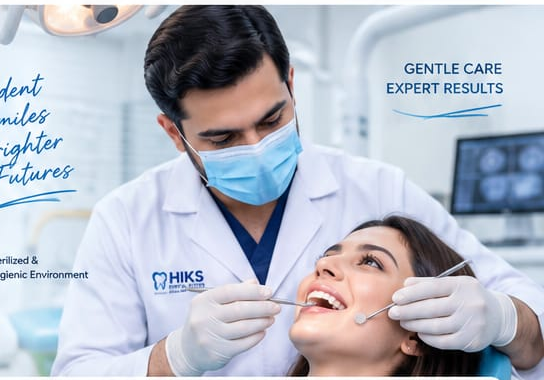
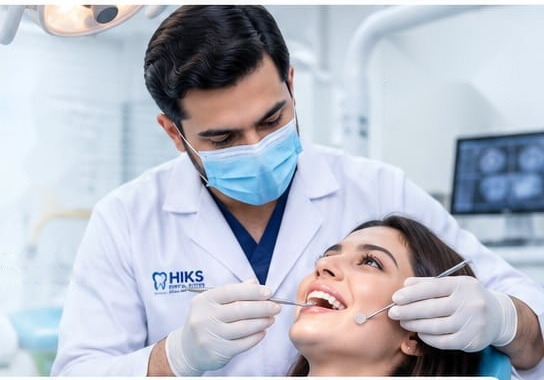
new

Changed region(s): [[0.0, 0.2026, 0.1562, 0.55], [0.6875, 0.1447, 0.9375, 0.3184], [0.0, 0.6658, 0.1562, 0.7526]]

diff --git a/public/css/style.css b/public/css/style.css
@@ -10,17 +10,18 @@
 .why-reference-grid{display:grid;grid-template-columns:repeat(3,1fr);gap:14px}.why-reference-grid article{background:#fff;border:1px solid #e0ebf3;border-radius:12px;padding:20px;box-shadow:0 7px 20px rgba(16,67,103,.05)}.why-reference-grid article>span{display:flex;width:35px;height:35px;border-radius:50%;align-items:center;justify-content:center;background:#e7f5ff;color:var(--blue);font-weight:900}.why-reference-grid h3{font-size:15px;margin:10px 0 4px}.why-reference-grid p{font-size:12px;color:var(--muted);margin:0}
 .safety-reference{background:linear-gradient(110deg,#0b1f3a,#104d78);color:#fff}.safety-reference-grid{display:grid;grid-template-columns:240px 1fr;gap:55px;align-items:center}.safety-reference h2{color:#fff}.safety-reference p{color:#d8e6f1;max-width:750px}.safety-visual{height:180px;width:180px;border-radius:50%;border:9px solid rgba(255,255,255,.14);background:#0b79bf;display:flex;flex-direction:column;align-items:center;justify-content:center;margin:auto;box-shadow:0 0 0 14px rgba(255,255,255,.05)}.safety-visual span{font-size:42px;font-weight:900}.safety-visual small{text-align:center;font-weight:900;font-size:10px}.equipment-callout{display:flex;gap:14px;align-items:center;background:rgba(255,255,255,.08);border:1px solid rgba(255,255,255,.15);border-radius:10px;padding:14px 17px;margin-top:20px}.equipment-callout strong{color:#fff}.equipment-callout span{color:#dceaf3;font-size:12px}
 .pricing-reference{background:#f6fbff}.pricing-reference-grid{display:grid;grid-template-columns:1fr 380px;gap:50px;align-items:center}.pricing-reference p{color:var(--muted)}.price-reference-card{background:#fff;border-radius:14px;border:1px solid #dfebf3;box-shadow:var(--shadow);padding:28px}.price-reference-card span{font-size:10px;color:var(--muted);font-weight:900;letter-spacing:1px}.price-reference-card strong{display:block;color:#0d6ca8;font-size:42px;line-height:1.1;margin:8px 0}.price-reference-card small{display:block;color:#536c82;margin-bottom:17px}
-.gallery-reference-grid{display:grid;grid-template-columns:repeat(4,1fr);gap:14px}.gallery-reference-grid figure{margin:0}.gallery-reference-grid img{width:100%;height:150px;object-fit:cover;border-radius:10px}.gallery-reference-grid figcaption{font-size:11px;font-weight:800;margin-top:7px;color:#284963}.testimonials-reference{background:#fff}.testimonial-card{max-width:800px;margin:auto;background:#f7fbff;border:1px solid #e2edf5;border-radius:14px;padding:28px 35px;display:flex;gap:18px;align-items:flex-start;box-shadow:0 7px 20px rgba(20,70,100,.05)}.quote-mark{font:700 55px Georgia;color:#2e9ad3;line-height:.7}.testimonial-card p{margin:0;color:#3e5971}.review-note{display:block;margin-top:10px;font-size:11px;color:#7b8c9b}
+.gallery-reference-grid{display:grid;grid-template-columns:repeat(4,1fr);gap:14px}.gallery-reference-grid figure{margin:0}.gallery-reference-grid img{width:100%;height:150px;object-fit:cover;border-radius:10px}.gallery-reference-grid figcaption{font-size:11px;font-weight:800;margin-top:7px;color:#284963}.testimonials-reference{background:#fff}.testimonial-card{max-width:800px;margin:auto;background:#f7fbff;border:1px solid #e2edf5;border-radius:14px;padding:28px 35px;display:flex;gap:18px;align-items:flex-start;box-shadow:0 7px 20px rgba(20,70,100,.05)}.quote-mark{font:700 55px Georgia;color:#2e9ad3;line-height:.7}.testimonial-card p{margin:0;color:#3e5971}.review-note{display:block;margin-top:10px;font-size:11px;color:#7b8c9b}.testimonial-grid{display:grid;grid-template-columns:repeat(auto-fit,minmax(280px,1fr));gap:18px;max-width:1100px;margin:auto}.testimonial-grid .testimonial-card{max-width:none;margin:0}.review-stars{font-size:15px;letter-spacing:2px;margin-bottom:8px}.review-stars .star-filled{color:#f5a623}.review-stars .star-empty{color:#d8e3ea}.review-author{font-weight:800;color:#284963;font-style:normal}
+.review-add-form{display:grid;grid-template-columns:minmax(0,1fr) 160px auto;gap:10px}.review-add-form label{display:flex;flex-direction:column;gap:6px;font-weight:800;color:var(--navy);font-size:13px}.review-add-form input,.review-add-form select,.review-add-form textarea{padding:11px 12px;border:1px solid #d6e0e7;border-radius:8px;font:inherit}.review-add-form .review-text-field{grid-column:1/-1}.review-add-form button{align-self:start}.review-admin-list{display:flex;flex-direction:column;gap:14px}.review-admin-row{display:grid;grid-template-columns:minmax(0,1fr) auto;gap:10px;align-items:start;background:#fff;border:1px solid var(--border);border-radius:10px;padding:12px}.review-edit-form{display:grid;grid-template-columns:1fr 140px auto;gap:8px}.review-edit-form textarea{grid-column:1/-1;padding:9px 10px;border:1px solid #d6e0e7;border-radius:8px;font:inherit;resize:vertical}.review-edit-form input,.review-edit-form select{padding:9px 10px;border:1px solid #d6e0e7;border-radius:8px;font:inherit}@media(max-width:700px){.review-add-form,.review-edit-form{grid-template-columns:1fr}.review-admin-row{grid-template-columns:1fr}}
 .before-after-reference{background:#f8fbfd}.before-after-grid{display:grid;grid-template-columns:repeat(3,1fr);gap:15px}.before-after-grid article{background:#fff;border:1px solid #e0e9ef;border-radius:12px;padding:10px}.ba-placeholder{height:165px;border-radius:9px;background:linear-gradient(90deg,#eaf1f5 0 49%,#f8fbfd 49% 51%,#dff2fb 51% 100%);display:flex;align-items:center;justify-content:center;flex-direction:column;color:#48667c;position:relative}.ba-placeholder span{font-weight:900;font-size:17px}.ba-placeholder small{font-size:10px}.before-after-grid h3{font-size:13px;margin:9px 2px 2px}.before-after-grid p{font-size:10px;color:var(--muted);margin:0 2px 5px}
 .faq-reference{background:#fff}.faq-grid{display:grid;grid-template-columns:.8fr 1.2fr;gap:65px}.faq-grid>div>p{color:var(--muted);font-size:13px}.faq-list{display:flex;flex-direction:column;gap:9px}.faq-list details{border:1px solid #e1eaf1;border-radius:9px;background:#fff;padding:0 15px}.faq-list summary{cursor:pointer;padding:14px 3px;font-size:13px;font-weight:800;color:#173c5b}.faq-list p{font-size:12px;color:#62768a;margin:0 3px 15px}
 .contact-reference{background:#f1f8fd}.contact-reference-grid{display:grid;grid-template-columns:1fr 1fr;gap:50px;align-items:center}.contact-reference p{color:#50697f}.contact-reference-actions{display:flex;gap:10px;flex-wrap:wrap}.map-card{background:#fff;padding:10px;border-radius:13px;box-shadow:var(--shadow)}.map-card iframe{display:block;width:100%;height:260px;border:0;border-radius:9px;margin-bottom:10px}
-.floating-actions{position:fixed;right:18px;bottom:18px;z-index:45;display:flex;flex-direction:column;gap:8px}.floating-actions a{padding:10px 15px;border-radius:999px;color:#fff;font-size:11px;font-weight:900;box-shadow:0 8px 20px rgba(0,0,0,.16)}.floating-whatsapp{background:#19a865}.floating-call{background:var(--blue)}
+.floating-actions{position:fixed;right:18px;bottom:18px;z-index:45;display:flex;flex-direction:column;gap:12px}.floating-btn{display:flex;align-items:center;justify-content:center;width:56px;height:56px;border-radius:50%;color:#fff;box-shadow:0 8px 20px rgba(0,0,0,.22);transition:transform .15s ease,box-shadow .15s ease}.floating-btn:hover{transform:scale(1.08);box-shadow:0 10px 24px rgba(0,0,0,.28)}.floating-whatsapp{background:#25d366}.floating-call{background:var(--blue)}
 .site-footer{background:#062c4c;color:#d9e8f2}.footer-inner{display:grid;grid-template-columns:1.35fr 1fr 1.2fr 1.2fr;gap:38px;padding:50px 0}.footer-logo{width:62px;height:62px;object-fit:cover;border-radius:50%;margin-bottom:14px}.footer-column{display:flex;flex-direction:column;gap:7px}.footer-column h4{margin:0 0 8px;color:#fff;font-size:15px}.footer-column a,.footer-column p{font-size:11px;color:#cbdce8;margin:0}.footer-column a:hover{color:#fff}.footer-brand-column>p{max-width:260px}.social-links{display:flex;gap:8px;margin-top:8px}.social-links a{display:flex;width:29px;height:29px;border-radius:50%;align-items:center;justify-content:center;background:#fff;color:#0b4b76;font-weight:900}.footer-map{display:block;width:100%;height:150px;border:0;border-radius:9px;margin:0 0 4px;background:#fff}.footer-bottom{border-top:1px solid rgba(255,255,255,.12);padding:14px 0}.footer-bottom .container{display:flex;justify-content:space-between;gap:20px;font-size:10px}
 .page-hero{background:linear-gradient(120deg,#0b1f3a,#11649a);color:#fff;padding:65px 0}.page-hero h1{font-size:38px;margin:7px 0}.page-hero p{color:#dce9f3;max-width:650px}.form-card{background:#fff;border:1px solid var(--border);border-radius:13px;padding:28px;display:flex;flex-direction:column;gap:16px;box-shadow:var(--shadow)}.form-card label{display:flex;flex-direction:column;gap:7px;font-size:13px;font-weight:800;color:var(--navy)}.form-card input,.form-card select,.form-card textarea,.filter-form select{width:100%;padding:12px 13px;border:1px solid #d6e0e7;border-radius:8px;font:inherit;background:#fff}.form-card input:focus,.form-card select:focus,.form-card textarea:focus{outline:2px solid rgba(8,118,201,.15);border-color:var(--blue)}.alert{padding:13px 16px;border-radius:8px;margin-bottom:16px}.alert-error{background:#fff0ef;color:#b13a36;border:1px solid #f1cbc8}.whatsapp-booking{margin-top:18px;padding:17px;border-radius:10px;background:#effaf4;border:1px solid #d5ebde;display:flex;justify-content:space-between;align-items:center;gap:15px}.whatsapp-booking div{display:flex;flex-direction:column}.whatsapp-booking span{color:var(--muted);font-size:11px}.token-card,.status-card{background:#fff;border:1px solid var(--border);border-radius:14px;padding:32px;box-shadow:var(--shadow)}.token-box{background:var(--navy);color:var(--gold-2);font:700 1.5rem Georgia,serif;border-radius:9px;padding:15px;margin:18px 0}.summary-table{width:100%;border-collapse:collapse}.summary-table th,.summary-table td{padding:11px;border-bottom:1px solid var(--border);text-align:left}.summary-table th{color:var(--muted);width:160px}.badge{display:inline-block;padding:4px 10px;border-radius:999px;font-size:11px;font-weight:800}.badge-pending{background:#fff4dd;color:#a97912}.badge-confirmed{background:#e4f7ee;color:#23805a}.badge-completed{background:#e7eef9;color:var(--navy)}.badge-cancelled{background:#fdecea;color:#c43d3d}
 .admin-body{background:#f4f6f8}.admin-layout{display:flex;min-height:100vh}.admin-sidebar{width:245px;flex:0 0 245px;background:var(--navy);color:#fff;padding:24px 18px;display:flex;flex-direction:column;gap:24px}.admin-logo{font:600 1.25rem Georgia,serif;color:var(--gold-2)}.admin-sidebar nav{display:flex;flex-direction:column;gap:8px}.admin-sidebar nav a{color:#d9e1ec;padding:10px 12px;border-radius:7px}.admin-sidebar nav a:hover{background:rgba(255,255,255,.08);color:#fff}.logout-form{margin-top:auto}.admin-main{flex:1;padding:30px 20px}.admin-main h1{color:var(--navy);margin-top:0}.page-header{display:flex;align-items:center;justify-content:space-between;flex-wrap:wrap;gap:12px;margin-bottom:20px}.stats-grid{display:grid;grid-template-columns:repeat(4,1fr);gap:15px;margin-bottom:26px}.card{background:#fff;border:1px solid var(--border);border-radius:10px;padding:20px}.stat-card{text-align:center}.stat-number{font-size:2.2rem;font-weight:800;color:var(--navy)}.stat-label{color:var(--muted)}.quick-links{display:flex;gap:12px;flex-wrap:wrap}.admin-table{width:100%;border-collapse:collapse;background:#fff;border-radius:10px;overflow:hidden}.admin-table th,.admin-table td{padding:12px 14px;border-bottom:1px solid var(--border);text-align:left;font-size:.9rem}.admin-table th{background:#f8fafc;color:var(--muted)}.admin-table .thumb{width:44px;height:44px;border-radius:8px;object-fit:cover}.admin-table .actions{display:flex;gap:8px;align-items:center}.admin-table form{margin:0}.login-wrap{min-height:100vh;display:flex;align-items:center;justify-content:center;padding:20px;background:var(--navy)}.login-card{background:#fff;border-radius:14px;padding:34px;width:100%;max-width:400px;box-shadow:var(--shadow)}.login-card form{display:flex;flex-direction:column;gap:14px;margin-top:14px}.login-card label{display:flex;flex-direction:column;gap:6px;font-weight:700}.login-card input{padding:11px 12px;border:1px solid var(--border);border-radius:8px}
 @media(max-width:1050px){.main-nav{gap:16px}.main-nav a{font-size:12px}.service-reference-grid{grid-template-columns:repeat(4,1fr)}.hero-reference-grid{grid-template-columns:1fr 1fr}.footer-inner{grid-template-columns:repeat(2,1fr)}}
 @media(max-width:800px){.header-inner{min-height:58px;flex-wrap:wrap}.brand{flex:1}.brand{height:58px}.brand img{width:44px;height:44px}.nav-toggle{display:block;order:2}.header-cta{order:3}.main-nav{order:4;display:none;width:100%;flex-direction:column;align-items:flex-start;gap:0;padding:7px 0 15px;margin:0}.main-nav.open{display:flex}.main-nav a{padding:9px 0;border:0}.hero-reference-grid,.about-grid-reference,.pricing-reference-grid,.faq-grid,.contact-reference-grid{grid-template-columns:1fr}.hero-reference-grid{min-height:unset}.hero-copy-reference{padding:35px 0}.hero-photo-wrap{height:320px;min-height:320px}.hero-script{left:30px}.hero-side-copy{right:25px}.trust-bar{grid-template-columns:repeat(2,1fr)}.trust-bar>div:nth-child(2){border-right:0}.offer-ribbon-inner{flex-wrap:wrap;padding:17px 0}.doctor-offer-column{grid-template-columns:1fr 1fr}.why-reference-grid{grid-template-columns:repeat(2,1fr)}.gallery-reference-grid{grid-template-columns:repeat(2,1fr)}.before-after-grid{grid-template-columns:repeat(2,1fr)}.safety-reference-grid{grid-template-columns:1fr;gap:25px}.safety-reference-grid>div:last-child{text-align:center}.equipment-callout{justify-content:center;flex-wrap:wrap}.footer-inner{grid-template-columns:repeat(2,1fr)}.stats-grid{grid-template-columns:repeat(2,1fr)}.admin-layout{flex-direction:column}.admin-sidebar{width:100%;flex-basis:auto}.admin-sidebar nav{flex-direction:row;flex-wrap:wrap}.logout-form{margin-top:0}}
-@media(max-width:560px){.container{width:calc(100% - 26px)}.section{padding:58px 0}.header-cta{display:none}.hero-copy-reference h1{font-size:36px}.hero-feature-row{grid-template-columns:repeat(2,1fr);gap:12px}.hero-photo-wrap{height:260px;min-height:260px}.hero-script{font-size:22px;top:45px}.hero-side-copy{font-size:10px;top:45px}.trust-bar{grid-template-columns:1fr 1fr;padding:9px}.trust-bar strong{font-size:18px}.trust-bar span{font-size:9px}.offer-big{font-size:23px}.reference-heading{align-items:flex-start;flex-direction:column;gap:8px}.section-heading h2,.about-copy-reference h2,.safety-reference h2,.pricing-reference h2,.faq-grid h2,.contact-reference h2{font-size:26px}.service-reference-grid{grid-template-columns:repeat(2,1fr)}.doctor-offer-column{grid-template-columns:1fr}.mini-features{grid-template-columns:1fr}.why-reference-grid,.gallery-reference-grid,.before-after-grid{grid-template-columns:1fr}.gallery-reference-grid img{height:190px}.footer-inner{grid-template-columns:1fr}.footer-bottom .container{flex-direction:column}.floating-actions{right:9px;bottom:9px}.contact-reference-actions .btn{width:100%}}
+@media(max-width:560px){.container{width:calc(100% - 26px)}.section{padding:58px 0}.header-cta{display:none}.hero-copy-reference h1{font-size:36px}.hero-feature-row{grid-template-columns:repeat(2,1fr);gap:12px}.hero-photo-wrap{height:260px;min-height:260px}.hero-script{font-size:22px;top:45px}.hero-side-copy{font-size:10px;top:45px}.trust-bar{grid-template-columns:1fr 1fr;padding:9px}.trust-bar strong{font-size:18px}.trust-bar span{font-size:9px}.offer-big{font-size:23px}.reference-heading{align-items:flex-start;flex-direction:column;gap:8px}.section-heading h2,.about-copy-reference h2,.safety-reference h2,.pricing-reference h2,.faq-grid h2,.contact-reference h2{font-size:26px}.service-reference-grid{grid-template-columns:repeat(2,1fr)}.doctor-offer-column{grid-template-columns:1fr}.mini-features{grid-template-columns:1fr}.why-reference-grid,.gallery-reference-grid,.before-after-grid{grid-template-columns:1fr}.gallery-reference-grid img{height:190px}.footer-inner{grid-template-columns:1fr}.footer-bottom .container{flex-direction:column}.floating-actions{right:12px;bottom:12px;gap:10px}.floating-btn{width:48px;height:48px}.contact-reference-actions .btn{width:100%}}
 
 /* Doctors preview / directory */
 .section-subtitle{font-size:13px;color:var(--muted);margin:8px 0 0}.doctors-preview-section{background:#f7fbfe}.doctor-feature-card{display:grid;grid-template-columns:minmax(260px,360px) 1fr;gap:38px;align-items:center;background:#fff;border:1px solid #e2ebf2;border-radius:18px;padding:18px;box-shadow:var(--shadow);max-width:920px;margin:0 auto}.doctor-feature-photo-wrap{height:330px;border-radius:14px;overflow:hidden;background:#eef4f8}.doctor-feature-photo{width:100%;height:100%;object-fit:cover;object-position:center top}.doctor-feature-content{padding:12px 18px 12px 0}.doctor-feature-content h3{font-size:30px;line-height:1.1;color:#123250;margin:7px 0 4px}.doctor-feature-content>p:not(.doctor-qualification){font-size:14px;line-height:1.7;color:#536b80;max-width:620px}.doctor-feature-meta{display:flex;flex-wrap:wrap;gap:10px;margin:18px 0 22px}.doctor-feature-meta span{background:#eef8fd;border:1px solid #dceff8;color:#176b9e;border-radius:999px;padding:7px 11px;font-size:10px;font-weight:800}.doctor-view-all{margin-top:9px}.doctor-empty{text-align:center;padding:45px 25px;background:#fff;border:1px dashed #cddde8;border-radius:16px}.doctors-empty-large{max-width:760px;margin:0 auto}.doctors-list-section{background:#f7fbfe}.doctors-list-grid{display:grid;grid-template-columns:repeat(3,1fr);gap:22px}.doctor-profile-card{background:#fff;border:1px solid #e2ebf2;border-radius:16px;overflow:hidden;box-shadow:var(--shadow)}.doctor-profile-photo-wrap{height:280px;background:#eef4f8}.doctor-profile-photo{width:100%;height:100%;object-fit:cover;object-position:center top}.doctor-profile-body{padding:20px}.doctor-profile-body h2{font-size:22px;line-height:1.15;color:#123250;margin:6px 0}.doctor-profile-body>p:not(.doctor-qualification){font-size:13px;line-height:1.6;color:#61758a;min-height:64px}.about-doctor-preview .doctor-view-all{font-size:10px;padding:8px 12px}.about-doctor-preview{display:flex;flex-direction:column;justify-content:flex-start}

diff --git a/routes/admin.js b/routes/admin.js
@@ -5,6 +5,7 @@ const Doctor = require('../models/Doctor');
 const Appointment = require('../models/Appointment');
 const Gallery = require('../models/Gallery');
 const Service = require('../models/Service');
+const Review = require('../models/Review');
 const upload = require('../utils/upload');
 const { uploadBuffer, destroy: destroyCloudinary } = require('../utils/cloudinary');
 
@@ -255,6 +256,50 @@ router.post('/services/:id', async (req, res) => {
 router.post('/services/:id/delete', async (req, res) => {
   await Service.findByIdAndDelete(req.params.id);
   res.redirect('/admin/services');
+});
+
+/* ---------------- CUSTOMER REVIEWS ---------------- */
+
+router.get('/reviews', async (req, res) => {
+  const reviews = await Review.find({}).sort({ createdAt: -1 });
+  res.render('admin/reviews', { title: 'Customer Reviews', reviews, error: null });
+});
+
+router.post('/reviews', async (req, res) => {
+  try {
+    const customerName = (req.body.customerName || '').trim();
+    const rating = Number(req.body.rating);
+    const reviewText = (req.body.reviewText || '').trim();
+    if (!customerName) throw new Error('Please enter the customer name.');
+    if (!Number.isFinite(rating) || rating < 1 || rating > 5) throw new Error('Please select a valid rating.');
+    if (!reviewText) throw new Error('Please enter the review text.');
+    await Review.create({ customerName, rating, reviewText });
+    res.redirect('/admin/reviews');
+  } catch (err) {
+    const reviews = await Review.find({}).sort({ createdAt: -1 });
+    res.status(400).render('admin/reviews', { title: 'Customer Reviews', reviews, error: err.message || 'Could not add review.' });
+  }
+});
+
+router.post('/reviews/:id', async (req, res) => {
+  try {
+    const customerName = (req.body.customerName || '').trim();
+    const rating = Number(req.body.rating);
+    const reviewText = (req.body.reviewText || '').trim();
+    if (!customerName) throw new Error('Please enter the customer name.');
+    if (!Number.isFinite(rating) || rating < 1 || rating > 5) throw new Error('Please select a valid rating.');
+    if (!reviewText) throw new Error('Please enter the review text.');
+    await Review.findByIdAndUpdate(req.params.id, { customerName, rating, reviewText }, { runValidators: true });
+    res.redirect('/admin/reviews');
+  } catch (err) {
+    const reviews = await Review.find({}).sort({ createdAt: -1 });
+    res.status(400).render('admin/reviews', { title: 'Customer Reviews', reviews, error: err.message || 'Could not update review.' });
+  }
+});
+
+router.post('/reviews/:id/delete', async (req, res) => {
+  await Review.findByIdAndDelete(req.params.id);
+  res.redirect('/admin/reviews');
 });
 
 /* ---------------- APPOINTMENTS ---------------- */

diff --git a/routes/public.js b/routes/public.js
@@ -5,6 +5,7 @@ const Appointment = require('../models/Appointment');
 const generateToken = require('../utils/generateToken');
 const getServices = require('../utils/getServices');
 const Gallery = require('../models/Gallery');
+const Review = require('../models/Review');
 
 const getCanonical = (req) => `${req.protocol}://${req.get('host')}${req.path === '/' ? '/' : req.path}`;
 
@@ -15,7 +16,8 @@ router.get('/', async (req, res) => {
     Gallery.find({ category: 'Clinic', active: true }).sort({ createdAt: -1 })
   ]);
   const services = await getServices();
-  res.render('index', { title: 'Home', doctors, services, treatmentResults, clinicGallery, canonicalUrl: getCanonical(req) });
+  const reviews = await Review.find({}).sort({ createdAt: -1 });
+  res.render('index', { title: 'Home', doctors, services, treatmentResults, clinicGallery, reviews, canonicalUrl: getCanonical(req) });
 });
 
 router.get('/doctors', async (req, res) => {

diff --git a/models/Review.js b/models/Review.js
@@ -1,0 +1,12 @@
+const mongoose = require('mongoose');
+
+const reviewSchema = new mongoose.Schema(
+  {
+    customerName: { type: String, required: true, trim: true },
+    rating: { type: Number, required: true, min: 1, max: 5, default: 5 },
+    reviewText: { type: String, required: true, trim: true }
+  },
+  { timestamps: true }
+);
+
+module.exports = mongoose.model('Review', reviewSchema);
